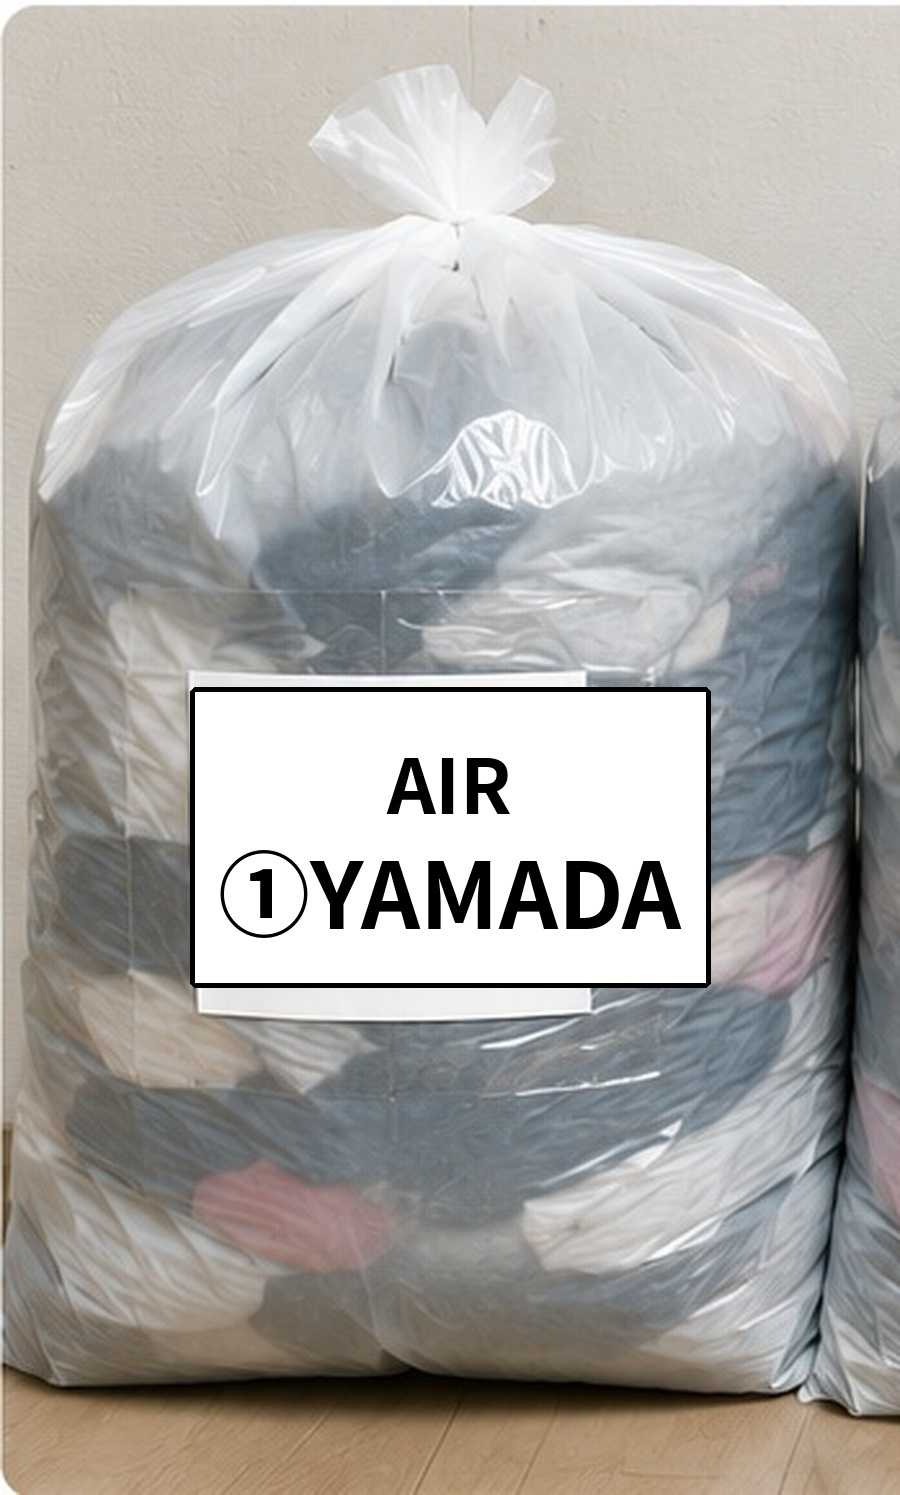
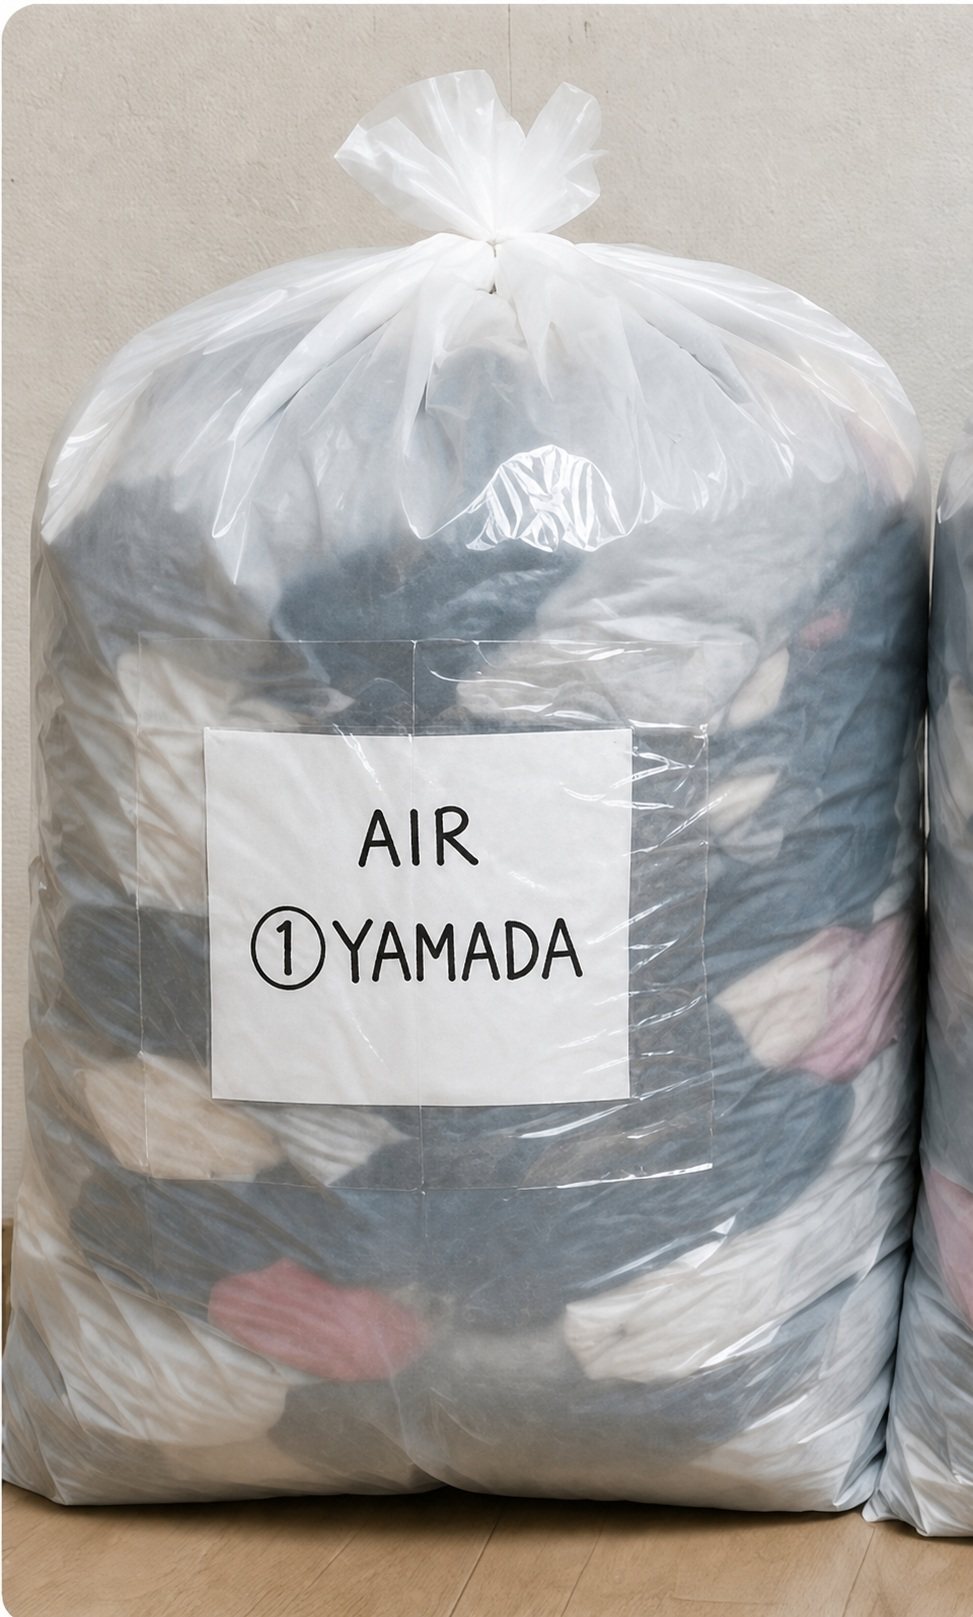
syuusei

diff --git a/assets/js/app.js b/assets/js/app.js
@@ -4,6 +4,21 @@ document.addEventListener('DOMContentLoaded',()=>{
   if(nav&&!nav.querySelector('a[href="step5.html"]')){const step5=document.createElement('a');step5.href='step5.html';step5.textContent='STEP5';const reference=nav.querySelector('a[href="reference.html"]');nav.insertBefore(step5,reference);}
   const kakaoId=$('#kakaoId');if(kakaoId&&window.SITE_CONFIG?.kakaoId)kakaoId.textContent=window.SITE_CONFIG.kakaoId;
   const kakaoQr=document.querySelector('img[alt="KakaoTalk QRコード"]');if(kakaoQr&&window.SITE_CONFIG?.kakaoQr)kakaoQr.src=window.SITE_CONFIG.kakaoQr;
+  document.querySelectorAll('.finish-box p').forEach(p=>{if(p.textContent.includes('韓国古着仕入れツアーへご参加いただき、ありがとうございました。'))p.remove();});
+  document.querySelectorAll('.label-size-note').forEach(note=>{
+    note.innerHTML=note.innerHTML
+      .replace('、荷物の目立つ場所に貼ってください。','。')
+      .replace('書き、目立つ場所に貼ってください。','書いてください。');
+  });
+  document.querySelectorAll('#single-label-guide .row').forEach(row=>{if(row.textContent.includes('荷物の見やすい場所へ貼る'))row.remove();});
+  document.querySelectorAll('.card h2').forEach(heading=>{
+    if(heading.textContent.trim()==='正しい例・間違った例'&&!heading.parentElement.querySelector('.step2-preview-note')){
+      const note=document.createElement('div');
+      note.className='note step2-preview-note';
+      note.innerHTML='<strong>ラベルの貼り方は、次のSTEP2で説明します。</strong><br>ここでは、複数人で発送する場合の番号と名前の付け方をご確認ください。';
+      heading.parentElement.insertBefore(note,heading);
+    }
+  });
   const showLogin=$('#showLogin'),passwordModal=$('#passwordModal'); if(showLogin&&passwordModal){const openLogin=()=>{passwordModal.classList.remove('hide');passwordModal.setAttribute('aria-hidden','false');showLogin.setAttribute('aria-expanded','true');document.body.classList.add('modal-open');setTimeout(()=>$('#password')?.focus(),120)};const closeLogin=()=>{passwordModal.classList.add('hide');passwordModal.setAttribute('aria-hidden','true');showLogin.setAttribute('aria-expanded','false');document.body.classList.remove('modal-open')};showLogin.addEventListener('click',openLogin);document.querySelectorAll('[data-close-login]').forEach(el=>el.addEventListener('click',closeLogin));document.addEventListener('keydown',e=>{if(e.key==='Escape'&&!passwordModal.classList.contains('hide'))closeLogin()});}
   const login=$('#loginForm'); if(login) login.addEventListener('submit',e=>{e.preventDefault(); const p=$('#password').value; if(p===(window.SITE_CONFIG?.password||'tnf0125')){sessionStorage.setItem('ksg-auth','1');sessionStorage.removeItem('ksg-consent');location.href='consent.html'}else $('#error').textContent='パスワードが違います。'});
   if(document.body.dataset.protected==='true'&&!sessionStorage.getItem('ksg-auth')) location.replace('index.html');
@@ -11,6 +26,21 @@ document.addEventListener('DOMContentLoaded',()=>{
   const consentForm=$('#consentForm'),consentCheck=$('#consentCheck'),consentButton=$('#consentButton');
   if(consentForm&&consentCheck&&consentButton){consentCheck.addEventListener('change',()=>consentButton.disabled=!consentCheck.checked);consentForm.addEventListener('submit',e=>{e.preventDefault();if(!consentCheck.checked)return;sessionStorage.setItem('ksg-consent','1');location.href='home.html';});}
   document.querySelectorAll('[data-shipping-mode]').forEach(el=>el.addEventListener('click',()=>localStorage.setItem('ksg-shipping-mode',el.dataset.shippingMode)));
+  const shippingChoice=$('.choice-card'),singleGuide=$('#single-label-guide'),singleChoice=document.querySelector('[data-shipping-mode="single"]');
+  if(shippingChoice&&singleGuide&&singleChoice){
+    localStorage.removeItem('ksg-shipping-mode');
+    singleGuide.classList.add('hide');
+    singleChoice.classList.remove('primary');
+    singleChoice.classList.add('outline');
+    singleChoice.setAttribute('aria-pressed','false');
+    singleChoice.addEventListener('click',()=>{
+      singleGuide.classList.remove('hide');
+      singleChoice.classList.remove('outline');
+      singleChoice.classList.add('primary');
+      singleChoice.setAttribute('aria-pressed','true');
+      setTimeout(()=>singleGuide.scrollIntoView({behavior:'smooth',block:'start'}),0);
+    });
+  }
   document.querySelectorAll('[data-copy]').forEach(b=>b.onclick=async()=>{const t=document.querySelector(b.dataset.copy)?.innerText||'';await navigator.clipboard.writeText(t);const old=b.textContent;b.textContent='コピーしました';setTimeout(()=>b.textContent=old,1300)});
   const reserve=$('#reserveForm'); if(reserve) reserve.addEventListener('submit',e=>{e.preventDefault();const d=$('#pickupDate').value,h=$('#pickupHour').value;$('#reserveMessage').textContent=`안녕하세요.
 호텔에서 짐 수거를 예약하고 싶습니다.
@@ -20,10 +50,12 @@ document.addEventListener('DOMContentLoaded',()=>{
 감사합니다.`;$('#reserveResult').classList.remove('hide');});
 
   const modeNotice=$('#modeNotice'), singleCard=$('#singleFormCard'), multiCard=$('#multiFormCard');
+  const singleNumberNote=singleCard?.querySelector('.note');if(singleNumberNote?.textContent.includes('一人発送の場合、番号は必要ありません。'))singleNumberNote.remove();
+  const multiWarn=multiCard?.querySelector('.warn');if(multiWarn)multiWarn.innerHTML='<strong>ラベルと入力欄の番号を一致させてください。</strong><br>ラベルが「①YAMADA」の荷物は、①のお届け先情報へ入力してください。';
   const circled=n=>n<=20?String.fromCodePoint(0x2460+n-1):`(${n})`;
   let personCount=0;
-  const addPerson=()=>{personCount++;const n=personCount, mark=circled(n);const wrap=document.createElement('section');wrap.className='person-card';wrap.dataset.person=n;wrap.innerHTML=`<div class="person-heading"><span>${mark}</span><h3>${mark}の発送情報</h3></div><p class="label-sync">荷物のラベル：<strong>${mark}<span class="live-label-name">名前</span></strong></p><div class="form"><label for="labelName${n}">ラベルに書いた名前</label><input id="labelName${n}" class="label-name" placeholder="YAMADA" required><p class="hint">ラベルと同じローマ字の名前を入力してください。</p></div><div class="form"><label for="fullName${n}">お名前</label><input id="fullName${n}" placeholder="TARO YAMADA" required></div><div class="form"><label for="zip${n}">郵便番号</label><input id="zip${n}" placeholder="861-1234" required></div><div class="form"><label for="address${n}">英語に変換した住所</label><textarea id="address${n}" placeholder="変換した英語住所を貼り付けてください" required></textarea></div><div class="form"><label for="phone${n}">電話番号</label><input id="phone${n}" inputmode="tel" placeholder="090-1234-5678" required></div>${n>2?'<button class="remove-person" type="button">この人を削除</button>':''}`;$('#peopleFields').appendChild(wrap);wrap.querySelector('.label-name').addEventListener('input',e=>wrap.querySelector('.live-label-name').textContent=e.target.value.trim().toUpperCase()||'名前');wrap.querySelector('.remove-person')?.addEventListener('click',()=>{wrap.remove();renumberPeople();});};
-  const renumberPeople=()=>{const cards=[...document.querySelectorAll('.person-card')];personCount=cards.length;cards.forEach((card,i)=>{const mark=circled(i+1);card.dataset.person=i+1;card.querySelector('.person-heading span').textContent=mark;card.querySelector('.person-heading h3').textContent=`${mark}の発送情報`;card.querySelector('.label-sync').firstChild.textContent='荷物のラベル：';card.querySelector('.label-sync strong').firstChild.textContent=mark;});};
+  const addPerson=()=>{personCount++;const n=personCount, mark=circled(n);const wrap=document.createElement('section');wrap.className='person-card';wrap.dataset.person=n;wrap.innerHTML=`<div class="person-heading"><span>${mark}</span><h3>${mark}の発送情報</h3></div><p class="label-sync"><strong>ラベルと入力欄の番号を一致させてください。</strong><br>ラベルが「${mark}YAMADA」の荷物は、この${mark}のお届け先情報へ入力します。</p><div class="form"><label for="fullName${n}">お名前</label><input id="fullName${n}" placeholder="TARO YAMADA" required></div><div class="form"><label for="zip${n}">郵便番号</label><input id="zip${n}" placeholder="861-1234" required></div><div class="form"><label for="address${n}">英語に変換した住所</label><textarea id="address${n}" placeholder="変換した英語住所を貼り付けてください" required></textarea></div><div class="form"><label for="phone${n}">電話番号</label><input id="phone${n}" inputmode="tel" placeholder="090-1234-5678" required></div>${n>2?'<button class="remove-person" type="button">この人を削除</button>':''}`;$('#peopleFields').appendChild(wrap);wrap.querySelector('.remove-person')?.addEventListener('click',()=>{wrap.remove();renumberPeople();});};
+  const renumberPeople=()=>{const cards=[...document.querySelectorAll('.person-card')];personCount=cards.length;cards.forEach((card,i)=>{const mark=circled(i+1);card.dataset.person=i+1;card.querySelector('.person-heading span').textContent=mark;card.querySelector('.person-heading h3').textContent=`${mark}の発送情報`;card.querySelector('.label-sync').innerHTML=`<strong>ラベルと入力欄の番号を一致させてください。</strong><br>ラベルが「${mark}YAMADA」の荷物は、この${mark}のお届け先情報へ入力します。`;});};
   const showMode=mode=>{localStorage.setItem('ksg-shipping-mode',mode);modeNotice?.classList.add('hide');singleCard?.classList.toggle('hide',mode!=='single');multiCard?.classList.toggle('hide',mode!=='multi');$('#shipResult')?.classList.add('hide');if(mode==='multi'&&personCount===0){addPerson();addPerson();}};
   if(modeNotice){const saved=localStorage.getItem('ksg-shipping-mode');if(saved==='single'||saved==='multi')showMode(saved);else modeNotice.classList.remove('hide');document.querySelectorAll('[data-set-mode]').forEach(b=>b.addEventListener('click',()=>showMode(b.dataset.setMode)));}
   $('#addPerson')?.addEventListener('click',addPerson);
@@ -35,7 +67,7 @@ document.addEventListener('DOMContentLoaded',()=>{
 전화번호: ${v('#singlePhone')}
 
 일본으로 배송 부탁드립니다.`;$('#shipResult').classList.remove('hide');$('#shipResult').scrollIntoView({behavior:'smooth'});});
-  $('#shipFormMulti')?.addEventListener('submit',e=>{e.preventDefault();const cards=[...document.querySelectorAll('.person-card')];const blocks=cards.map((card,i)=>{const mark=circled(i+1),q=s=>card.querySelector(s).value.trim();return `[${mark}${q('.label-name').toUpperCase()}]
+  $('#shipFormMulti')?.addEventListener('submit',e=>{e.preventDefault();const cards=[...document.querySelectorAll('.person-card')];const blocks=cards.map((card,i)=>{const mark=circled(i+1),q=s=>card.querySelector(s).value.trim();return `[${mark}]
 성명: ${q('[id^="fullName"]')}
 우편번호: ${q('[id^="zip"]')}
 주소: ${q('[id^="address"]')}

diff --git a/assets/css/style.css b/assets/css/style.css
@@ -126,3 +126,4 @@ input[type="date"]{width:100%;max-width:100%;min-width:0;box-sizing:border-box;}
 /* Confirmed flow additions */
 .consent-main{max-width:720px;margin:auto;padding:28px 14px 36px}.consent-lead{padding:16px;border-radius:14px;background:#eef5ff;border:1px solid #b6d0ff}.terms-list{margin:18px 0;padding-left:22px}.terms-list li{margin:10px 0}.consent-check{display:flex;align-items:flex-start;gap:11px;padding:15px;margin:18px 0;border:2px solid var(--navy);border-radius:14px;font-weight:800;background:#fff}.consent-check input{width:22px;height:22px;flex:0 0 22px;margin:2px 0 0}.btn:disabled{opacity:.45;cursor:not-allowed}.label-size-note{margin:14px 0;padding:13px 14px;border-radius:12px;background:#fff8df;border:1px solid #ebc860}.wait-card{text-align:center;border-color:#b6d0ff}.wait-icon{font-size:38px}.text-link{display:inline-flex;margin-top:10px;color:var(--blue);font-weight:900;text-decoration:underline}.flow-list{display:grid;gap:12px;margin-bottom:14px}.flow-card{display:grid;grid-template-columns:64px 1fr;gap:14px;background:#fff;border:1px solid var(--line);border-radius:17px;padding:18px;box-shadow:0 7px 22px rgba(10,37,81,.05)}.flow-card h2{margin:2px 0 7px;font-size:20px;line-height:1.35}.flow-card p{margin:0}.flow-card>div:nth-child(2)>span{display:inline-grid;place-items:center;width:25px;height:25px;border-radius:50%;background:var(--navy);color:#fff;font-weight:900;font-size:12px}.flow-icon{width:58px;height:58px;border-radius:16px;display:grid;place-items:center;background:#edf4ff;font-size:30px}.finish-box{text-align:center;margin-top:18px;padding:22px 15px;border-radius:16px;background:#edf9f1;border:1px solid #a7dfb9}.finish-box>div{font-size:42px}.finish-box h2{color:#155b2d}.kakao-open{margin-top:10px}
 @media(max-width:560px){.consent-main{padding:18px 12px 28px}.consent-card{padding:16px}.terms-list{padding-left:20px}.flow-card{grid-template-columns:50px 1fr;padding:15px;gap:11px}.flow-icon{width:48px;height:48px;font-size:25px}.flow-card h2{font-size:18px}.preview{overflow-wrap:anywhere;word-break:break-word}.home-card{min-width:0}.home-card>div:last-child{min-width:0}.home-card span{overflow-wrap:anywhere}}
+.step2-preview-note{margin:0 0 18px}
